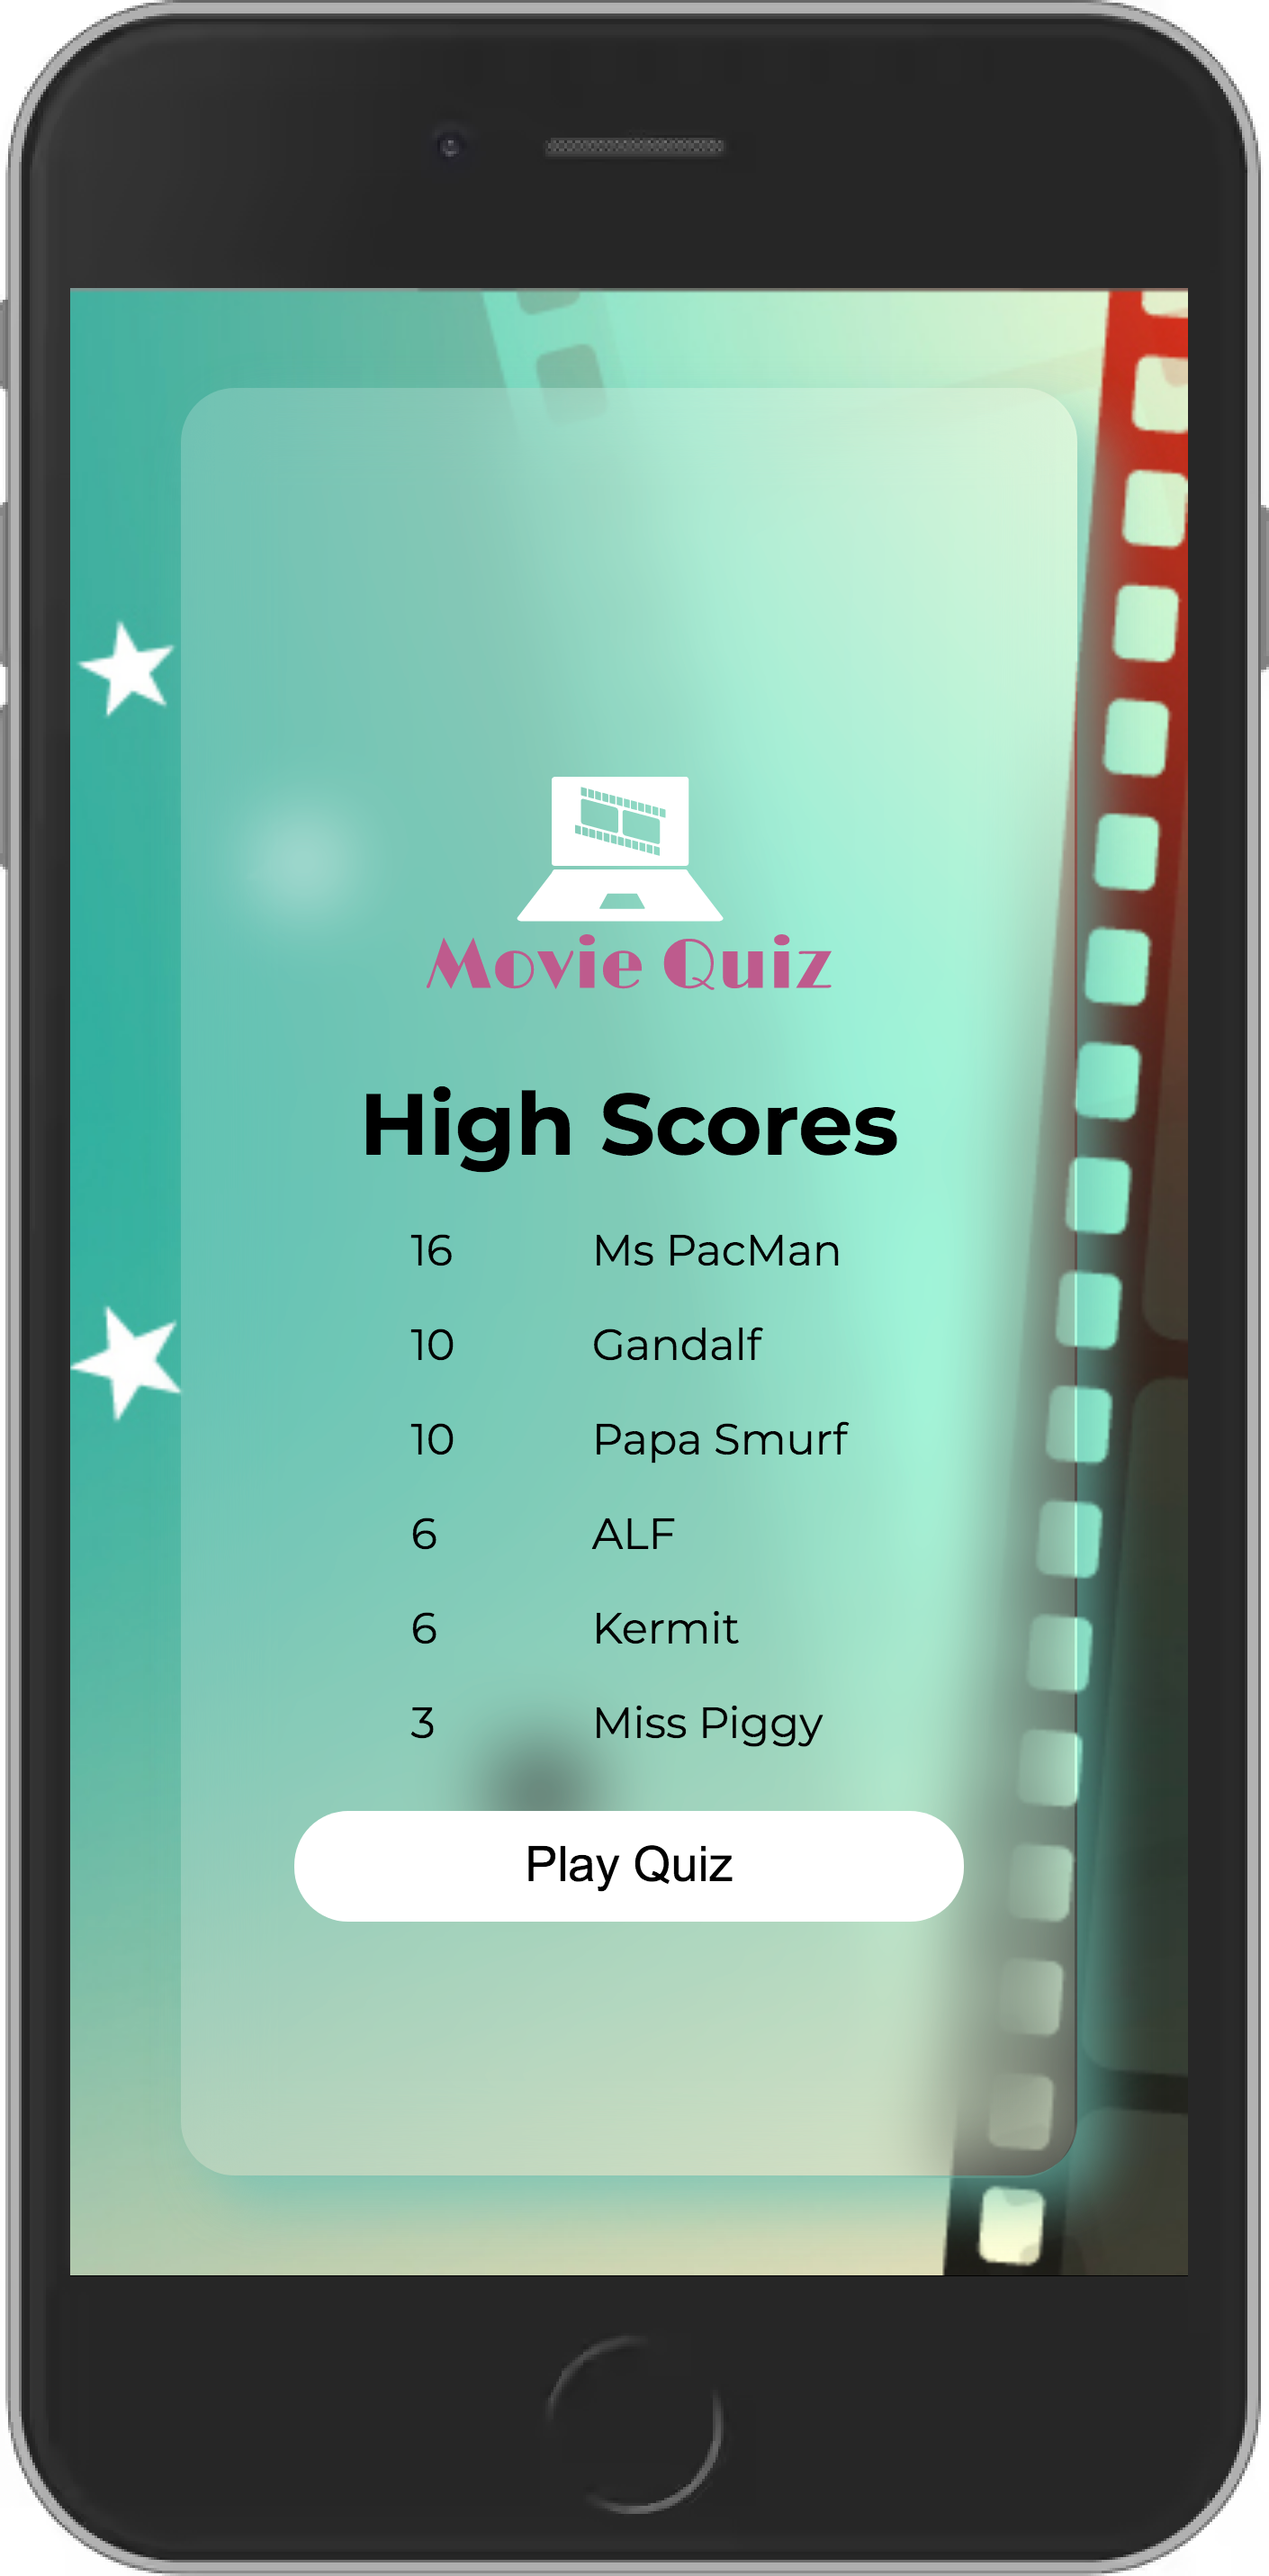
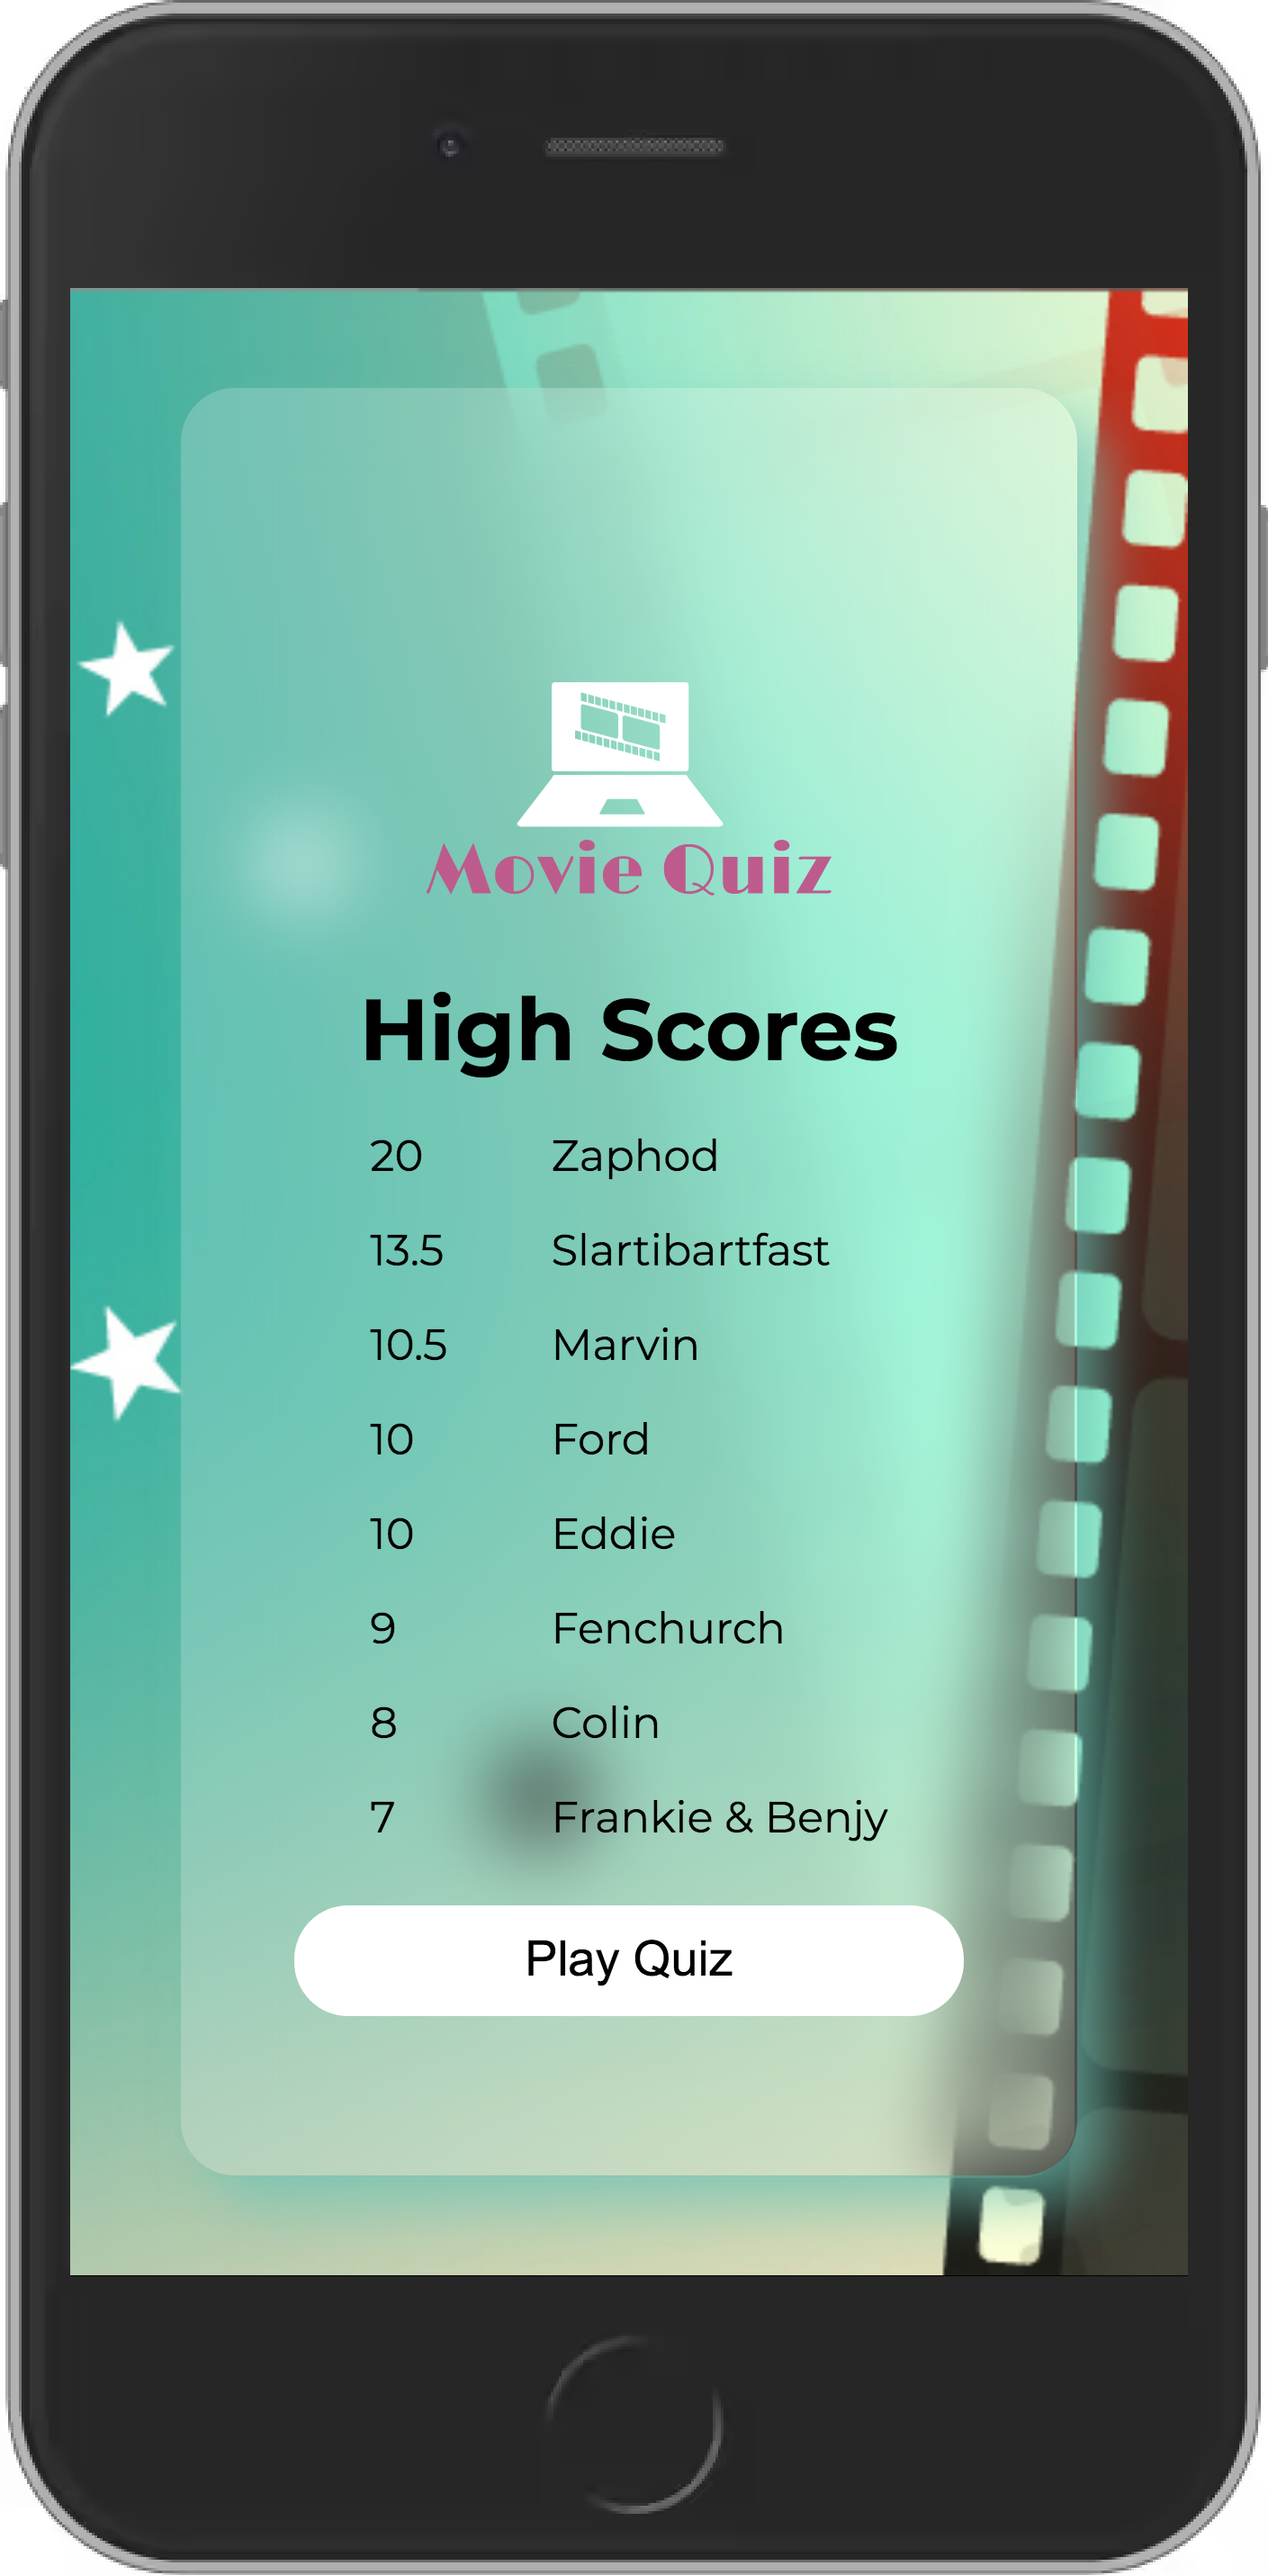
docs: updated the Readme to reflect the amendments made. with new images documenting the recent additions.

diff --git a/README.md b/README.md
@@ -65,7 +65,7 @@ __Site User Goals:__
   - A button to play the game, and a button, and
   - A button to view the high scores.
 
-The points values are input within the Javascript file which updates the text on the welcome page. This ensures that if the scores are updated, from within the javascript file, the welcome page points section does not require updating manually.
+The points values are input within the Javascript file `const pointsPerCorrectAnswerEasy = 1` which updates the text on the welcome page. This ensures that if the scores are updated, from within the javascript file, the welcome page points section does not require updating manually.
   
   ![Welcome Page](./docs/screenshots/home-page-mobile.png)
 
@@ -82,15 +82,17 @@ The points values are input within the Javascript file which updates the text on
 - __High Scores Section__
 This section has a table created from the user's session storage, when first opening the session storage is populated with some example names and scores from the Javascript file, this ensures that the high scores page isn't blank when first opening.
 There is also included on this page a button to return to the home screen.
-There are 8 sample high scores added to the storage initially, the score values are created randomly using the point values and the total amount of questions to be asked within the quiz. This is calculated twice for the Hard, Medium and Easy values
-    `Math.floor(Math.random() * (SetQtyOfQuestions + 1)) * pointsPerCorrectAnswerHard`
+There are 11 sample high scores created initially, before being sorted and only the top ones indicated by the const `highScoresToShow = value` are kept.
+The score values are created randomly using the point values and the total amount of questions to be asked within the quiz. This is calculated for the Hard, Medium and Easy values
+    `(Math.floor(Math.random() * SetQtyOfQuestions) + 1) * pointsPerCorrectAnswer`
+This has been done to help have a randomness of high scores and names populating the high scores table, but mainly because I could and I thought it would be fun.  I don't expect the user to ever realise this is happening.
   
   ![High Scores](./docs/screenshots/high-scores-page-mobile.png)
   
 - __The Quiz Section__
 
   - The quiz page included the logo at the top.
-  - The questions are populated randomly from the questions fetched from [Open Trivia (API) Database](https://opentdb.com/api_config.php). These questions are obtained according to the difficulty level selected by the user. Instead of just 10 questions fetched from the API there is a factor of 3 (again determined within the Javascript file, this was reduced from 5 as there wasn't 50 questions within the hard questions selection in the API) to help the randomness to the questions. on testing if only 10 questions are fetched from the API it was the same 10 questions fetched each time, spoiling the quiz gameplay on any repeat attempts.
+  - The questions are populated randomly from the questions fetched from [Open Trivia (API) Database](https://opentdb.com/api_config.php). The quiz is set to return 10 questions, but is easily amended through `const SetQtyOfQuestions = 10`. These questions are obtained according to the difficulty level selected by the user. Instead of just 10 questions fetched from the API there is a multiplication factor used  to return more questions from the API `const questionsToFetchMultiplier = 3;`, this was reduced from 5 as there wasn't 50 questions within the hard questions selection in the API. this helps with the randomness of the questions. on testing if only 10 questions are fetched from the API it was the same 10 questions fetched each time, spoiling the quiz gameplay on any repeat attempts.
   - When an answer is selected the question either lights up Red for incorrect or green for correct.
   - When an answer is selected there is a sound, either a buzz or a ding to indicate if the answer was incorrect or correct, this feature is able to be turned off or on by the mute/play button at the bottom right of the play screen.
   - When an incorrect answer is selected there is an indication around the correct answer, to let the user know which answer was correct.
@@ -104,11 +106,11 @@ There are 8 sample high scores added to the storage initially, the score values 
   ![The Exit Quiz](./docs/screenshots/exit-quiz-ipad.png)
 - __Submitting High Scores__
 
-  - After completing the quiz, the user has an option to save their score and play again or not to save and play again.
-  - The score is submitted and only the top 6 scores are retained. This retention value is easily amended within the top section of the Javascript file.
-  
-  ![Submitting the high score](./docs/screenshots/submit-high-scores-page-ipad.png)
-  ![Submitted high score](./docs/screenshots/submitted-high-scores-page-ipad.png)
+  - After completing the quiz, The user's final score is displayed with the current high scores and, if the user has scored higher than the lowest score on in the high scores list the option to save their score is displayed, ![Submitting the high score](./docs/screenshots/end-game-submit-high-scores-page-ipad.png)
+  otherwise just the play again button is displayed.
+  ![Score not higher than the lowest score](./docs/screenshots/end-game-score-not-high-enough.png)
+  - The score is submitted and only the top scores are retained. This retention value is easily amended within `const highScoresToShow = 8` at the top section of the Javascript file.
+ ![Submitted high score](./docs/screenshots/submitted-high-scores-page-ipad.png)
   
 ### Typeface
 
@@ -137,12 +139,12 @@ This way my content will be easily readable.
 ### Sounds
 
 I have implemented a sound to indicate a correct and an incorrect answer, I have added a mute icon to the quiz container to allow the user to select if they wish to hear the confirmation sounds.
-The user selection is also added into the session storage, this way at the end of the game and the user plays again, the mute/play sound status is recalled from the storage and is continued to implemented within the gameplay.
+The user selection is also added into the session storage, this way at the end of the game and the user plays again, the mute/play sound status is recalled from the storage and is continued to be implemented within the gameplay.
 
 ### Insufficient Height message
 
-- I have added a message that covers over the welcome page if:
-  - **Height of the screen** - if the height of the screen is of insufficient size to display the quiz. The site displays a message asking the user to rotate their screen to continue playing the quiz.
+- I have added a message that covers over the welcome page if
+  the **Height of the screen** is of insufficient size to display the quiz. The site displays a message asking the user to rotate their screen to continue playing the quiz.
   ![Insufficient Height Message](./docs/screenshots/height-insufficient.png)
 
 ### Features Left to Implement
@@ -164,13 +166,20 @@ The user selection is also added into the session storage, this way at the end o
 - **HTML** - No errors or warnings were returned when passing through the official [W3C validator](https://validator.w3.org/nu/?doc=https%3A%2F%2Fdkitley1975.github.io%2Fmovie-quiz%2Findex.html)
 - **CSS** -  No errors were found when passing through the official [(Jigsaw) validator](https://jigsaw.w3.org/css-validator/validator?uri=https%3A%2F%2Fdkitley1975.github.io%2Fmovie-quiz&profile=css3svg&usermedium=all&warning=1&vextwarning=&lang=en).
 - **Javascript** - No errors or warnings are shown when adding the code to this site. [(JSHint.com) validator](https://jshint.com/)
-
+  
 ### Unfixed Bugs
 
-Whilst testing within the developer tools within the web browsers no issues were identified visually, but whilst testing on an iphone the address bar and navigation bar on Safari and Chrome interfered with the margins and the centralisation of the container. This didn't replicate in Edge or Firefox. I reached out for Tutor support to help resolve this issue and unfortunately the issue was unable to be fixed, at this time. I did increase the margin and padding to help reduce the problem, whilst ensuring the content fit within the screen.
-It is noticed that if the user adds the bookmark to the home screen when the web page is opened the toolbars are hidden by request and the page is centralized and has no issues.
+- Iphone display.
+  Whilst testing within the developer tools within the web browsers no issues were identified visually, but whilst testing on an iphone the address bar and navigation bar on Safari and Chrome interfered with the margins and the centralisation of the container. This didn't replicate in Edge or Firefox. I reached out for Tutor support to help resolve this issue and unfortunately the issue was unable to be fixed, at this time.
+  
+  It was noted if the user scrolls the page both these bars are removed by the device.
 
-An additional issue is the ios button styling, which I haven't as yet been able to style in the way I would like.
+  I did increase the margin and padding to help reduce the overlap, whilst ensuring the content fit within the screen.
+
+  It is also noticed that if the user adds the bookmark to the home screen when the web page is opened the toolbars are hidden by request of the webmanifest and the page is centralized and has no issues.
+
+- ios button styling.
+  An additional issue is the ios button styling for the select button, which I haven't as yet been able to style in the way I would like, this is noted within the [Features Left to Implement](#features-left-to-implement).
 
 ## Deployment
 
@@ -204,6 +213,6 @@ To run the project locally:
 
 ### Special Thanks
 
-Special thanks to my mentor Simen Daehlin. Without his persuasion/encouragement or blatant telling me I should, I would never have considered to attempt this as as my second project, and for the patience, help and pointers he provided along along the way.
+Special thanks to my mentor Simen Daehlin. Without his persuasion/encouragement or blatant telling me I should, I would never have considered to attempt this as as my second project, and for the patience, help and pointers he provided along the way.
 
-Well thanks for reading all the way to the bottom, and for visiting this [my second project](https://dkitley1975.github.io/movie-quiz/)
+Well thanks for reading all the way to the bottom, and for visiting this [my second project](https://dkitley1975.github.io/movie-quiz/) for my [Code Institute](https://codeinstitute.net/) Diploma in Software Development (E-commerce Applications).
